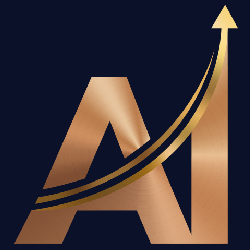
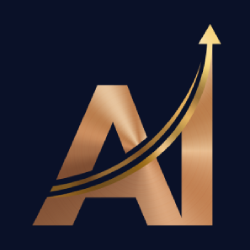
Test

Changed region(s): [[0.056, 0.028, 0.952, 0.98]]

diff --git a/about.html b/about.html
@@ -47,8 +47,8 @@
         <div class="row align-items-center gy-5">
           <div class="col-lg-5 position-relative" data-animate="fade-left">
             <div class="about-img-wrap">
-              <img src="https://images.unsplash.com/photo-1567427017947-545c5f8d16ad?w=700&h=500&fit=crop&q=80"
-                alt="Awards and recognition" width="700" height="500" loading="lazy" class="scroll-zoom">
+              <img src="images/BusinessStrategyMeetingFocusedOnSolvingOperationalChallengesAndImprovingWorkflows.webp"
+                alt="Business strategy meeting focused on solving operational challenges and improving workflows." width="700" height="500" loading="lazy" class="scroll-zoom">
             </div>
             <div class="dotted-square bottom-left"></div>
           </div>
@@ -225,8 +225,8 @@
           </div>
           <div class="col-lg-6 position-relative" data-animate="fade-right">
             <div class="about-img-wrap">
-              <img src="https://images.unsplash.com/photo-1474511320723-9a56873867b5?w=700&h=500&fit=crop&q=80"
-                alt="Cheetah — precision and speed" width="700" height="500" loading="lazy" class="scroll-zoom">
+              <img src="images/TrustedConsultantMeetingWithClientsInAModernOfficeSetting.webp"
+                alt="Trusted consultant meeting with clients in a modern office setting." width="700" height="500" loading="lazy" class="scroll-zoom">
             </div>
             <div class="dotted-square top-right"></div>
           </div>

diff --git a/index.html b/index.html
@@ -4,6 +4,7 @@
 <meta charset="UTF-8">
 <meta name="viewport" content="width=device-width,initial-scale=1">
 <title>Abhi Innovations Inc. | Operations Consulting & Digital Transformation | Calgary</title>
+<link rel="icon" href="images/fevicon.png" type="image/png"> 
 <meta name="description" content="Abhi Innovations Inc. helps businesses optimize processes, automate workflows, and scale operations. Expert consulting in Calgary, AB.">
 <link rel="canonical" href="https://abhi-innovations.com/">
 <meta property="og:title" content="Abhi Innovations Inc. | Operations Consulting">
@@ -37,7 +38,7 @@
       </div>
     </div>
   </div>
-  <div class="container hero-content" style="position:relative;z-index:2;padding-top:calc(var(--nav-height) + 60px);padding-bottom:80px">
+  <div class="container hero-content" style="position:relative;z-index:2;padding-top:80px;padding-bottom:80px">
     <div class="row align-items-center">
       <div class="col-lg-7">
         <div class="hero-chip"><span class="dot"></span>Process Excellence Partners</div>
@@ -62,7 +63,7 @@
           <div class="BannerAnimationWrapper">
             <div class="initiatives-glow-bg"></div>
             <div class="initiatives-central-panel">
-              AI
+              <img src="images/AbhiInnovationIncLogo.webp" alt="Abhi Innovations Inc. Logo">
             </div>
           </div>
           

diff --git a/css/style.css b/css/style.css
@@ -19,7 +19,7 @@
   --font-heading: "Playfair Display", serif;
   --font-body: "Manrope", sans-serif;
   --nav-height: calc(var(--brand-height) + 16px);
-  --brand-height: 56px;
+  --brand-height: 88px;
   --section-py: clamp(60px, 8vw, 120px);
   --container-xl: 1320px;
   --container-lg: 1140px;
@@ -1329,7 +1329,7 @@ p {
   padding: 60px 0 0;
 }
 .footer-brand img {
-  height: 45px;
+  height: 85px; 
   width: auto;
   margin-bottom: 16px;
 }
@@ -1483,12 +1483,10 @@ p {
   box-shadow: var(--glow-gold);
 }
 .team-card .team-img {
-  height: 280px;
   overflow: hidden;
 }
 .team-card .team-img img {
-  width: 100%;
-  height: 100%;
+  aspect-ratio: 1;
   object-fit: cover;
   transition: transform 0.8s cubic-bezier(0.165, 0.84, 0.44, 1);
 }
@@ -1796,7 +1794,7 @@ option {
   z-index: 1;
   width: 260px;
   height: 260px;
-  background: linear-gradient(135deg, #b87333 0%, #c9a84c 50%, #d4b87a 100%);
+  background: var(--primary-color);
   border-radius: 24px;
   display: flex;
   align-items: center;
@@ -1807,6 +1805,10 @@ option {
   font-weight: 700;
   letter-spacing: 1px;
   box-shadow: 0 10px 30px rgba(0, 0, 0, 0.2);
+}
+
+.initiatives-central-panel img{
+  width: 84%; 
 }
 
 .BannerAnimationWrapper {

diff --git a/js/critical.js b/js/critical.js
@@ -29,7 +29,7 @@ const navbarHTML = `
 <nav class="navbar navbar-expand-lg" aria-label="Main navigation">
   <div class="container">
     <a class="navbar-brand" href="index.html" aria-label="Abhi Innovations Home">
-      <img src="https://placehold.co/200x80/0a1128/C9A84C?text=ABHI+INC" alt="Abhi Innovations Inc. Logo" width="200" height="80">
+      <img src="images/AbhiInnovationIncLogo.webp" alt="Abhi Innovations Inc. Logo" width="200" height="80">
     </a>
     <button class="navbar-toggler d-lg-none" type="button" data-bs-toggle="offcanvas" data-bs-target="#mobileMenu" aria-controls="mobileMenu" aria-label="Toggle navigation">
       <span class="hamburger-line"></span><span class="hamburger-line"></span><span class="hamburger-line"></span>

diff --git a/services.html b/services.html
@@ -4,6 +4,7 @@
 <meta charset="UTF-8">
 <meta name="viewport" content="width=device-width,initial-scale=1">
 <title>Services | Abhi Innovations Inc. — Comprehensive Solutions for Operational Excellence</title>
+<link rel="icon" href="images/fevicon.png" type="image/png"> 
 <meta name="description" content="From process audits to automation strategy and tool implementation — our end-to-end consulting transforms how your business operates.">
 <link rel="canonical" href="https://abhi-innovations.com/services">
 <meta property="og:title" content="Services | Abhi Innovations Inc.">

diff --git a/js/script.js b/js/script.js
@@ -340,7 +340,7 @@
     <div class="row gy-4">
       <div class="col-lg-4 footer-col">
         <div class="footer-brand">
-          <img src="https://placehold.co/200x80/0a1128/C9A84C?text=ABHI+INC" alt="Abhi Innovations Inc." width="200" height="80">
+          <img src="images/AbhiInnovationIncLogo.webp" alt="Abhi Innovations Inc." width="200" height="80">
         </div>
         <p class="footer-desc">Empowering businesses with strategic operations consulting, workflow automation, and digital transformation solutions.</p>
         <div class="footer-social">

diff --git a/blog.html b/blog.html
@@ -4,6 +4,7 @@
 <meta charset="UTF-8">
 <meta name="viewport" content="width=device-width,initial-scale=1">
 <title>Blog | Abhi Innovations Inc. — Insights for Operational Excellence</title>
+<link rel="icon" href="images/fevicon.png" type="image/png"> 
 <meta name="description" content="Practical strategies, industry analysis, and expert perspectives on process optimization, automation, and operational excellence.">
 <link rel="canonical" href="https://abhi-innovations.com/blog">
 <meta property="og:title" content="Blog | Abhi Innovations Inc.">

diff --git a/contact.html b/contact.html
@@ -4,6 +4,7 @@
 <meta charset="UTF-8">
 <meta name="viewport" content="width=device-width,initial-scale=1">
 <title>Contact Us | Abhi Innovations Inc. — Get in Touch</title>
+<link rel="icon" href="images/fevicon.png" type="image/png"> 
 <meta name="description" content="Contact Abhi Innovations Inc. for a free consultation. Visit us in Calgary or reach out via phone, email, or WhatsApp.">
 <link rel="canonical" href="https://abhi-innovations.com/contact">
 <meta property="og:title" content="Contact Us | Abhi Innovations Inc.">

diff --git a/css/responsive.css b/css/responsive.css
@@ -48,6 +48,7 @@
 @media (max-width: 767px) {
   :root {
     --section-py: clamp(40px, 6vw, 80px);
+    --brand-height: 64px;
   }
   .testimonial-carousel-wrap {
     height: 500px;
